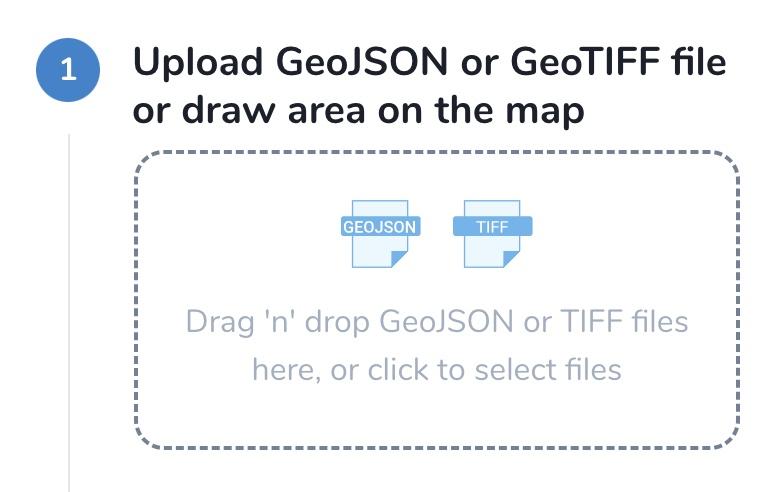
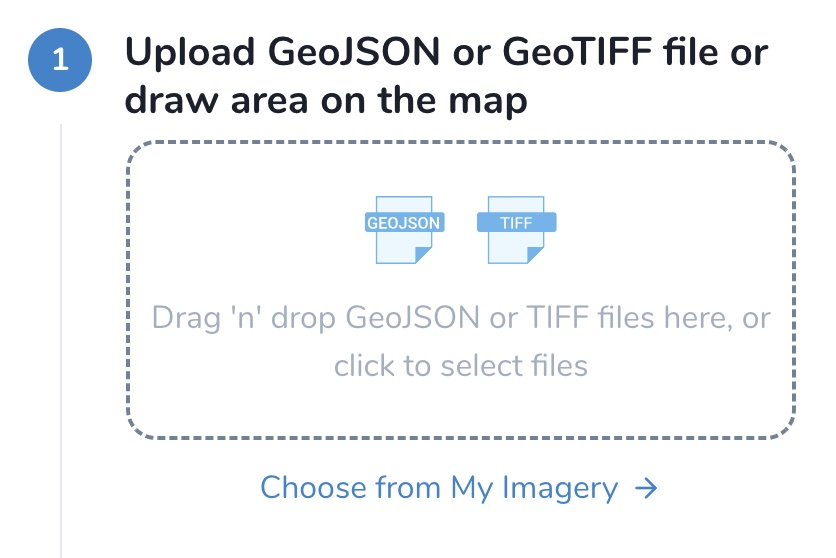
upddate my imagery web, optimise images

diff --git a/source/userguides/my_imagery.rst b/source/userguides/my_imagery.rst
@@ -11,8 +11,8 @@ My Imagery & Data Providers
      3. **Custom URL** – you can set your own XYZ or TMS layers, including commercial ones like :ref:`Nearmap <Nearmap_>`, :ref:`Maxar <Maxar Securewatch>`, etc. This is available in Mapflow Web, API and QGIS plugin.
      4. **Imagery Search** – search for the historical commercial imagery in Mapflow Web and QGIS plugin and place your order to get the images from our partners.
 
-.. warning::
-     ❗️ Currently, you can use the tool called *My imagery* in :ref:`Mapflow QGIS plugin <My imagery qgis>` and :ref:`API <Data API>`. The My Imagery Web implementation is in progress.
+.. note::
+     ❗️ You can use the tool called *My imagery* in :ref:`Mapflow Web <My imagery main>`, :ref:`Mapflow QGIS plugin <My imagery qgis>`, and :ref:`API <Data API>`.
 
 
 "My imagery" in QGIS
@@ -48,34 +48,53 @@ The basic scenario of working with "My imagery" service is as follows:
 "My imagery" Web
 -------------------
 
-.. note::
-     ❗️The Web app implementation is in progress. But now you can already view the list of your image collections and, if necessary, delete unused ones.
+The **My Imagery** page in Mapflow Web lets you manage your imagery collections (*mosaics*): create new collections, upload your own GeoTIFFs, preview them, monitor storage, and start a processing directly from an uploaded image.
 
-.. |preview| image:: _static/preview_mosaic.png
-  :width: 0.6cm
+My Imagery main page
+~~~~~~~~~~~~~~~~~~~~~~~
 
-.. |delete| image:: _static/delete_single_mosaic.png
-  :width: 0.6cm
-
-.. |more| image:: _static/more_menu.png
-  :width: 0.6cm
-
-By default, Mapflow provides a free 1 Gb storage for all new users to upload and process data. If the memory limit is running out (*Memory free* at the bottom of the page), you can either extend your limit by switching to one of the `Premium plans <https://mapflow.ai/pricing>`_ or delete the unused data using this page. After viewing the information about the collection and previewing its images (|preview|), you can delete one collection at a time (|delete|) or several at once via multiselect ((|more|) -> "Delete selected mosaics").
-
-.. figure:: _static/my_imagery_page.png
+.. figure:: _static/my_imagery/myimg_1.webp
          :align: center
          :class: with-border
          :width: 18cm
 
 |
 
-.. note::
-     Please note that the table lists all your previously uploaded images as separate collections, each with a unique UUID.
-     
-      .. figure:: _static/select_delete_mosaics.gif
-            :align: center
-            :class: with-border
-            :width: 15cm 
+1. **Storage** – check how much of your storage is used (used / total). When the limit is running out, you can free up space by deleting unused data, or extend your limit by switching to one of the `Premium plans <https://mapflow.ai/pricing>`_.
+2. **Create mosaic** – create a new mosaic (image collection) to group related images together.
+3. **Upload area** – drop GeoTIFFs (or click to browse) to upload them into the selected mosaic. 
 
+.. note::
+     See :ref:`Requirements for using the platform <Upload restrictions>` for supported formats and limits.
+
+4. **Image previews** – browse the table of mosaics and, for the selected mosaic, preview its images along with their status (*Ready*, *In progress*, *Failed*).
+5. **Use in new processing** – start a new processing from the selected image.
+
+.. note::
+     Each mosaic and image has its own status. The table lists all your mosaics, each with a unique UUID, and can be searched by name, and sorted by name, creation date, size, and status.
+
+Use in new processing
+~~~~~~~~~~~~~~~~~~~~~~~~
+
+Selecting **Use in new processing** opens a dialog where you choose the project to start the processing in. Pick an existing project from the list, or create a new one with **+ New project**.
+
+.. figure:: _static/my_imagery/myimg_2.webp
+         :align: center
+         :class: with-border
+         :width: 18cm
+
+|
+
+Preview and AOI
+~~~~~~~~~~~~~~~~~
+
+You can preview your image on the map and set the processing area: upload a GeoJSON/GeoTIFF, draw the area on the map, or click **Use Image Extent** to use the image boundaries. See :ref:`Select AOI` for details on drawing and uploading an AOI.
+
+.. figure:: _static/my_imagery/myimg_3.webp
+         :align: center
+         :class: with-border
+         :width: 18cm
+
+|
 
 .. include:: imagery_search.rst

diff --git a/source/userguides/get_started.rst b/source/userguides/get_started.rst
@@ -125,10 +125,12 @@ First step is to set the area of analysis for your project: by **AOI** polygon o
 
 |
 
+.. _Select AOI:
+
 2.1. Select AOI
 """"""""""""""""""""""""
 
-.. image:: _static/ui_aoi.png
+.. image:: _static/ui_aoi.webp
   :alt: Select AOI
   :align: center
   :width: 18cm
@@ -148,6 +150,7 @@ The user can draw the area using *Draw rectangle* / *Draw polygon* tool or uploa
     :class: with-border no-scaled-link  
 
   |
+  If you want to extend your AOI limit, switch to the paid plan.
 
 .. _upload-geotiff-section:
 
@@ -179,6 +182,23 @@ You can upload your aerial images in GeoTiff format. After the image is uploaded
 .. hint::
     If your image doesn't meet the params above, we suggest to use :doc:`Mapflow API <../api/processing_api>` / :doc:`QGIS plugin <../api/qgis_mapflow>` which have more capabilities. There you can also use our new :ref:`My imagery main` tool for storing and processing multiple images. Mapflow supports RGB imagery and also process single-band (panchromatic) imagery, but the AI models are not tuned for such kind of data, so the quality of the result may be worse than expected.
 
+2.3 Choose from My Imagery
+""""""""""""""""""""""""""""
+Instead of uploading a new file, you can reuse images you have already uploaded. Click **Choose from My Imagery** to open the picker and select a previously created mosaic or a single image as the source for the processing.
+
+.. image:: _static/my_imagery/upload_aoi_myimg.webp
+  :alt: Pick from My Imagery
+  :align: center
+  :width: 18cm
+  :class: with-border no-scaled-link
+
+|
+
+In the **Pick from My Imagery** dialog you can search your mosaics and images by name, sort them by creation date or size, preview the selected mosaic, and check its status. Select a mosaic and click **Use this mosaic** to set it as the imagery source. You can also create a new mosaic or upload images directly from this dialog.
+
+.. note::
+    Read more about managing your uploaded imagery in :ref:`My imagery main`.
+
 
 3. Select the imagery source
 ^^^^^^^^^^^^^^^^^^^^^^^^^^^^^^
@@ -197,7 +217,7 @@ This tab allows you to select from:
 3.1 Imagery providers
 """"""""""""""""""""""
 
-.. image:: _static/imagery_providers_tab.png
+.. image:: _static/imagery_providers_tab.webp
   :alt: Imagery providers
   :align: center
   :width: 15cm
@@ -227,7 +247,7 @@ Here you can select one of the default providers that are available in Mapflow, 
 3.2 Custom URL
 """"""""""""""""""
 
-.. image:: _static/custom_url_tab.png
+.. image:: _static/custom_url_tab.webp
   :alt: Imagery providers
   :align: center
   :width: 15cm
@@ -252,7 +272,7 @@ It's powered by Mapflow API providing access to the global satellite data provid
 .. seealso::
    👉 See :ref:`Imagery search <Imagery search  main>` for more information and guides.
   
-  .. image:: _static/historical_data_tab.png
+  .. image:: _static/historical_data_tab.webp
     :alt: Imagery search tab
     :align: center
     :width: 16cm
@@ -449,7 +469,7 @@ Allows to download results as a file in GeoJSON format.
 
 .. The geosjon.io app allows you to save the results in a different GIS-compatible format (CSV, KML, TopoJSON, WKT, Shapefile). Just click "Save" and select the format of your preference in the menu bar.
 
-.. .. image:: _static/geojson.io.png
+.. .. image:: _static/geojson.io.webp
 ..    :name: Preview map
 ..    :align: center
 ..    :width: 15cm
@@ -458,7 +478,7 @@ Allows to download results as a file in GeoJSON format.
 
 .. 3. "Open with `kepler.gl <https://kepler.geoalert.io/>`_" - view the results using this embedded app. It is a simple but powerful tool for geospatial data visualization and analysis.
 
-..  .. image:: _static/kepler_gl.png
+..  .. image:: _static/kepler_gl.webp
 ..    :alt: Preview map
 ..    :align: center
 ..    :width: 15cm

diff --git a/source/userguides/howto.rst b/source/userguides/howto.rst
@@ -232,7 +232,7 @@ Layers tab
 
 Click on the layer name to bring up the *Layer settings* from the drop-down menu. To hide all data, click on the *eye* icon.
 
-.. figure:: ../kepler/_static/view_layer_settings.png
+.. figure:: ../kepler/_static/view_layer_settings.webp
     :alt: View layer settings
     :align: center
     :width: 15cm
@@ -246,7 +246,7 @@ These settings allow you to choose a more suitable type of received data:
 * *Stroke width.* Controls the thickness of the stroke.
 * *Height.* Allows you to view data with heights in 3D format. Set the desired coefficient and select the attribute of the layer with heights.
 
-.. figure:: ../kepler/_static/3D_buildings.png
+.. figure:: ../kepler/_static/3D_buildings.webp
     :alt: 3D buildings
     :align: center
     :width: 15cm
@@ -258,7 +258,7 @@ Filters tab
 
 This tab allows you to add a filter of interest by a specific attribute of the layer (as in this case, the filter is set by classes with different typology of buildings).
 
-.. figure:: ../kepler/_static/filter_panel.png
+.. figure:: ../kepler/_static/filter_panel.webp
     :alt: Filter panel
     :align: center
     :width: 15cm
@@ -270,7 +270,7 @@ Interaction tab
 
 You can select or remove attributes that will be visible in the menu that appears when you hover over an object. It is also possible to turn on the panel indicating longitude and latitude.
 
-.. figure:: ../kepler/_static/interaction_panel.png
+.. figure:: ../kepler/_static/interaction_panel.webp
     :alt: Interaction panel
     :align: center
     :width: 15cm

diff --git a/source/userguides/iterative_mapping.rst b/source/userguides/iterative_mapping.rst
@@ -6,7 +6,7 @@ If you use Mapflow for agricultural landuse management, we suggest you have a lo
 
 Before we begin, however: Mapflow will digitize the fields for you, but the imagery for it to work on you need to select yourself. **We strongly recommend you preview images before processing them** because their quality may vary. Ones with high cloud cover (including cloud shadows) or no-data pixels in the AOI will likely produce poor results. Here are examples of two images that will inevitably yield unsatisfactory results:
 
-.. figure:: _static/iterative_mapping/3.png
+.. figure:: _static/iterative_mapping/3.webp
     :alt: Fields mask detected on a cloudy Sentinel-2 image
     :align: center
     :width: 15cm
@@ -67,7 +67,7 @@ What is an Iterative mapping process
 
 4. Reorder the layers so that the best results are on top. Normally, it takes about ten seconds to determine if the results are good enough.
 
-.. figure:: _static/iterative_mapping/11.png
+.. figure:: _static/iterative_mapping/11.webp
     :alt: Rank_inference_result
     :align: center
     :width: 15cm
@@ -85,7 +85,7 @@ What is an Iterative mapping process
 
 6. In the “results” layer, select and delete poorly digitized polygons. Now, the “results” layer has gaps which should be filled with successfully contoured polygons from the other result layers.
 
-.. figure:: _static/iterative_mapping/1.png
+.. figure:: _static/iterative_mapping/1.webp
     :alt: Find and delete bad field mask
     :align: center
     :width: 15cm
@@ -104,7 +104,7 @@ What is an Iterative mapping process
 If there are still gaps in the “results” layer, repeat *step #7* until you the all gaps are filled in. After several iterations, you should get fully contoured agricultural fields for your AOI. 
 
 
-.. figure:: _static/iterative_mapping/6.png
+.. figure:: _static/iterative_mapping/6.webp
     :alt: Result of itaretive mapping
     :align: center
     :width: 15cm

diff --git a/source/userguides/qgis_plugin.rst b/source/userguides/qgis_plugin.rst
@@ -74,7 +74,7 @@ In order to start processing, first you must specify its name. Next, choose the 
 
 In the upper-left corner of the main QGIS window in the Browser panel, you can open the OpenStreetMap basemap and navigate around the map to identify the area of interest.
 
-.. figure:: _static/qgis_user_guide/osm.png
+.. figure:: _static/qgis_user_guide/osm.webp
          :align: center
          :width: 15cm
          :class: with-border
@@ -105,7 +105,7 @@ The resulting vector objects can be saved in GeoJSON format (by clicking on the 
 Previously, we looked at one of the simplest scenarios for working with the Mapflow plugin. However, its functionality is not limited to a single data provider. In addition to the default providers, you can use the search in the imagery catalog or process your own images. 
 After adding the image you are interested in to QGIS as a raster layer, you can select it in the "Data source" field and run processing. The result can look like this: the boundaries of trees of different heights, identified in your image.
 
-.. figure:: _static/qgis_user_guide/tiff_processing.png
+.. figure:: _static/qgis_user_guide/tiff_processing.webp
          :align: center
          :width: 15cm
          :class: with-border

diff --git a/source/userguides/reference.rst b/source/userguides/reference.rst
@@ -145,7 +145,7 @@ It is natively supported by web mapping frameworks (e.g. Leaflet or Mapbox) and 
    Mapflow allows different options for actions with processing results stored in GeoJSON. You are able to download or “Open with **geojson.io**”.
 
 
-.. figure:: ../um/_static/img/open_with.png
+.. figure:: ../um/_static/img/open_with.webp
     :alt: Interaction panel
     :align: center
     :width: 20cm
@@ -155,7 +155,7 @@ It is natively supported by web mapping frameworks (e.g. Leaflet or Mapbox) and 
 .. note::
    `Geojson.io <https://geojson.io>`_ allows you to view and save the results in a different format (CSV, KML, TopoJSON, WKT, Shapefile). Click “Save” and select the format in the menu bar.
 
-.. figure:: ../um/_static/img/geojson.io.png
+.. figure:: ../um/_static/img/geojson.io.webp
     :alt: Interaction panel
     :align: center
     :width: 20cm

diff --git a/source/userguides/roads_model.rst b/source/userguides/roads_model.rst
@@ -15,7 +15,7 @@ In version 1.1 we added the road graph postprocessing:
 
 **Processing results samples**
 
-.. figure:: _static/processing_result/roads_model_6.jpg
+.. figure:: _static/processing_result/roads_model_6.webp
    :alt: Processing result of roads model
    :align: center
    :width: 15cm
@@ -23,7 +23,7 @@ In version 1.1 we added the road graph postprocessing:
    
    Optimal conditions for the model: rural/suburban territory, Russia
 
-.. figure:: _static/processing_result/roads_model_9.jpg
+.. figure:: _static/processing_result/roads_model_9.webp
    :alt: Processing result of roads model
    :align: center
    :width: 15cm

diff --git a/source/api/qgis_mapflow.rst b/source/api/qgis_mapflow.rst
@@ -550,7 +550,7 @@ Go to the plugin, on the *Providers* tab click on the *Add* (1) and enter the re
 
 To start processing using this data source, go to the *Processing* tab, fill in all fields of processing parameters, click *Start processing*.
 
- .. figure:: _static/qgis/custom_imagery_source.png
+ .. figure:: _static/qgis/custom_imagery_source.webp
          :alt: Custom imagery source
          :align: center
          :width: 15cm